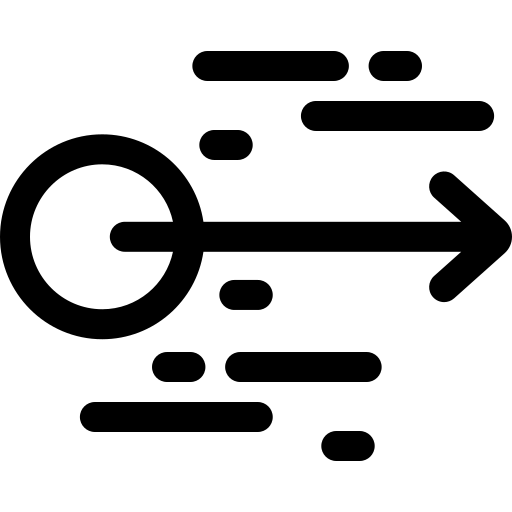
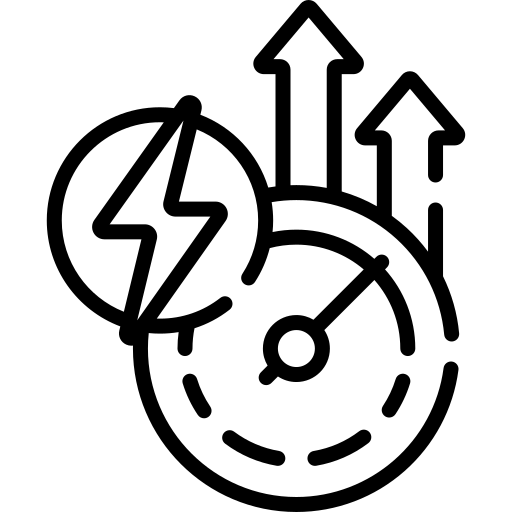
Changed to Drawer Navigation

diff --git a/App.js b/App.js
@@ -1,35 +1,59 @@
-import { createNativeStackNavigator } from '@react-navigation/native-stack';
+import 'react-native-gesture-handler';
+// import { createNativeStackNavigator } from '@react-navigation/native-stack';
+import { createDrawerNavigator } from '@react-navigation/drawer';
 import { NavigationContainer } from '@react-navigation/native';
 import { foregroundColor1, buttonForeground } from './styles/SensorStyles';
-import { Pressable } from 'react-native';
+// import { Pressable } from 'react-native';
 import Home from './screens/Home';
-import MapScreen from './screens/Map'
-import Icon from 'react-native-vector-icons/Entypo';
+import UC from './screens/UnderConstruction';
+// import MapScreen from './screens/Map'
+// import Icon from 'react-native-vector-icons/Entypo';
 
 
-const Stack = createNativeStackNavigator();
+// const Stack = createNativeStackNavigator();
+const Drawer = createDrawerNavigator();
 
 export default function App() {
   return (
-    <NavigationContainer>
-      <Stack.Navigator>
-        <Stack.Screen name="Sensors" component={Home} options={{
-          headerLeft: () => (
-            <Pressable onPress={() => alert('Hello')} style={{marginRight: '7%', marginTop: '2%', marginLeft: '-5%'}}>
-              <Icon name="menu" size={30} color={buttonForeground} />
-            </Pressable>
-          ),
+    <>
+      {/* <NavigationContainer>
+        <Stack.Navigator>
+          <Stack.Screen name="Sensors" component={Home} options={{
+            headerLeft: () => (
+              <Pressable onPress={() => alert('Hello')} style={{ marginRight: '7%', marginTop: '2%', marginLeft: '-5%' }}>
+                <Icon name="menu" size={30} color={buttonForeground} />
+              </Pressable>
+            ),
+            headerStyle: {
+              backgroundColor: foregroundColor1,
+            },
+            headerTintColor: buttonForeground,
+            headerTitleStyle: {
+              fontWeight: 'bold',
+            }
+          }} />
+          <Stack.Screen name="Map" component={MapScreen} />
+        </Stack.Navigator>
+      </NavigationContainer> */}
+
+      <NavigationContainer>
+        <Drawer.Navigator screenOptions={{
           headerStyle: {
             backgroundColor: foregroundColor1,
           },
-          headerTintColor: buttonForeground,
           headerTitleStyle: {
-            fontWeight: 'bold',
-          }
-        }} />
-        <Stack.Screen name="Map" component={MapScreen} />
-      </Stack.Navigator>
-    </NavigationContainer>
+            color: buttonForeground,
+          }, 
+          headerTintColor: buttonForeground,
+        }}>
+          <Drawer.Screen name="Road Condition Map" component={UC} />
+          <Drawer.Screen name="Elevation Map" component={UC} />
+          <Drawer.Screen name="Data Collection" component={Home} />
+          <Drawer.Screen name="Dashboard" component={UC} />
+          <Drawer.Screen name="Settings" component={UC} />
+        </Drawer.Navigator>
+      </NavigationContainer>
+    </>
   )
 }
 

diff --git a/components/LatLong.js b/components/LatLong.js
@@ -59,14 +59,14 @@ export default function LatLong({ updateLatLong, latitude, longitude, delay }) {
                         <View style={styles.sensorImageView}>
                             <Image
                                 style={styles.sensorImage}
-                                source={require('../assets/gyroscope-sensor.png')}
+                                source={require('../assets/gps.png')}
                             />
                         </View>
                         <View style={styles.valueContainer}>
                             <View>
                                 <Text style={styles.valueTitle}>Latitude</Text>
                                 <View style={styles.flexRowUtility}>
-                                    <Text style={styles.value}>
+                                    <Text style={styles.latLongValue}>
                                         {latitude}
                                     </Text>
                                     <Text style={styles.unit}>deg</Text>
@@ -75,7 +75,7 @@ export default function LatLong({ updateLatLong, latitude, longitude, delay }) {
                             <View>
                                 <Text style={styles.valueTitle}>Longitude</Text>
                                 <View style={styles.flexRowUtility}>
-                                    <Text style={styles.value}>
+                                    <Text style={styles.latLongValue}>
                                         {longitude}
                                     </Text>
                                     <Text style={styles.unit}>deg</Text>

diff --git a/screens/UnderConstruction.js b/screens/UnderConstruction.js
@@ -1,0 +1,17 @@
+import { Text, View } from 'react-native';
+import Icon from 'react-native-vector-icons/MaterialIcons';
+import { backgroundColor, buttonBackground } from '../styles/SensorStyles';
+
+export default function UC() {
+
+    return (
+        <View style={{flex: 1, justifyContent: 'center', alignItems: 'center', backgroundColor: backgroundColor }}>
+             <Icon name="construction" size={50} color={buttonBackground} style={{marginBottom: 10}} />
+             <Text style={{fontWeight: 'bold', marginTop: 10}}>This Page is Currently Under Construction</Text>
+
+        </View>
+
+    );
+}
+
+

diff --git a/components/RotationRate.js b/components/RotationRate.js
@@ -67,7 +67,7 @@ export default function RotationRate({ delay, collectData }) {
                         <View style={styles.sensorImageView}>
                             <Image
                                 style={styles.sensorImage}
-                                source={require('../assets/acceleration-6.png')}
+                                source={require('../assets/rotationrate.png')}
                             />
                         </View>
                         <View style={styles.valueContainer}>

diff --git a/components/MotionAcc.js b/components/MotionAcc.js
@@ -65,7 +65,7 @@ export default function MotionAcc({ delay, collectData }) {
                         <View style={styles.sensorImageView}>
                             <Image
                                 style={styles.sensorImage}
-                                source={require('../assets/acceleration-6.png')}
+                                source={require('../assets/acceleration.png')}
                             />
                         </View>
                         <View style={styles.valueContainer}>

diff --git a/components/MotionAccGrav.js b/components/MotionAccGrav.js
@@ -65,7 +65,7 @@ export default function MotionAccGrav({ delay, collectData }) {
                         <View style={styles.sensorImageView}>
                             <Image
                                 style={styles.sensorImage}
-                                source={require('../assets/acceleration-6.png')}
+                                source={require('../assets/gravity.png')}
                             />
                         </View>
                         <View style={styles.valueContainer}>

diff --git a/components/Rotation.js b/components/Rotation.js
@@ -67,7 +67,7 @@ export default function Rotation({ delay, collectData}) {
                         <View style={styles.sensorImageView}>
                             <Image
                                 style={styles.sensorImage}
-                                source={require('../assets/acceleration-6.png')}
+                                source={require('../assets/rotation.png')}
                             />
                         </View>
                         <View style={styles.valueContainer}>

diff --git a/styles/SensorStyles.js b/styles/SensorStyles.js
@@ -66,6 +66,13 @@ export const styles = StyleSheet.create({
         fontSize: 16,
         color: foregroundColor1,
     },
+    latLongValue: {
+        borderWidth: 1,
+        alignSelf: 'flex-start',
+        paddingHorizontal: 10,
+        fontSize: 13,
+        color: foregroundColor1,
+    },
     valueContainer: {
         flex: 1,
         justifyContent: 'space-around',

diff --git a/babel.config.js b/babel.config.js
@@ -2,5 +2,8 @@ module.exports = function(api) {
   api.cache(true);
   return {
     presets: ['babel-preset-expo'],
+    plugins: [
+      'react-native-reanimated/plugin',
+    ],
   };
 };
